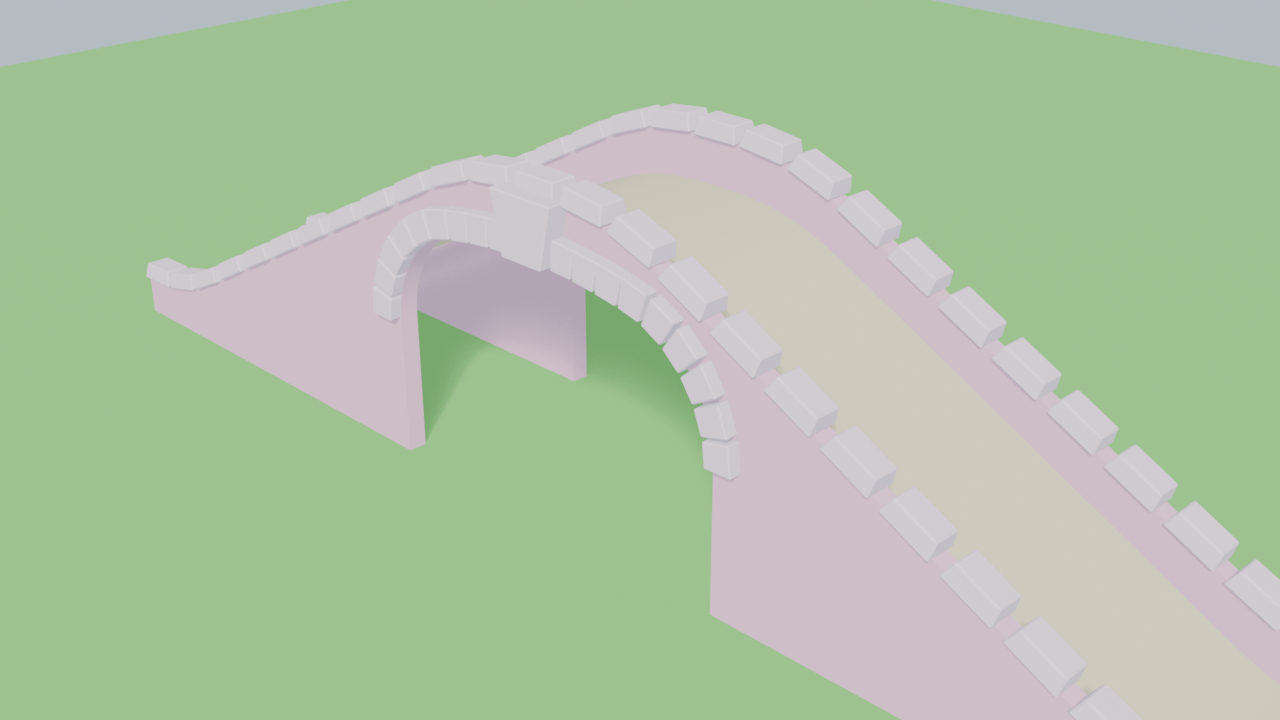
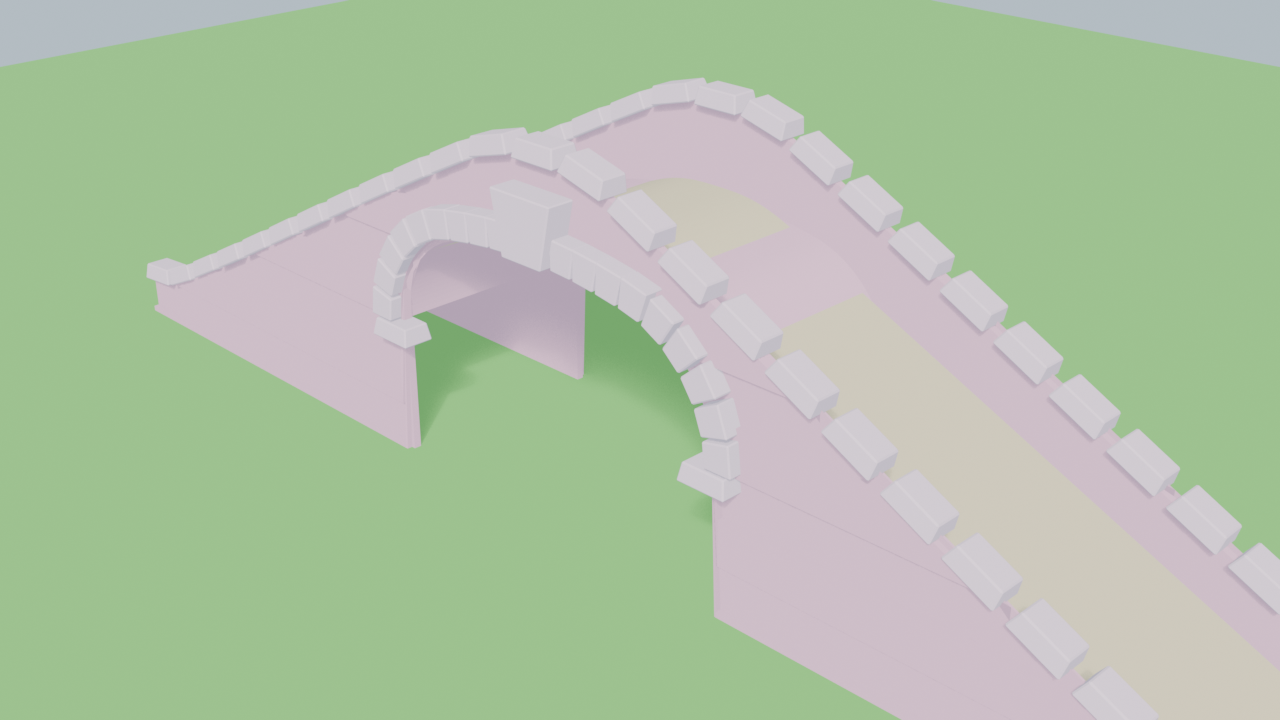
Preview: coursed flank, arced parapet, imposts, and a real barrel
Adds bridge-flank.png, the child's-eye view at the ramp foot that the flank
rework is actually for. Two preview-only bugs found and fixed on the way, both
worth knowing: a strip that *skips* a clamped-away sample bridges the gap to
the next one (it drew flat bars across the tunnel mouth), and a solidify's
offset follows the strip's own winding, so half the courses were pushed into
the wall and vanished. bridges.ts is immune to the first by construction -
every ring keeps the same course count - and does not use a solidify at all.

Claude-Session: https://claude.ai/code/session_0159y2RedQ8h6oPYxovTEG7t

diff --git a/art/blend/bridge_stones_render.py b/art/blend/bridge_stones_render.py
@@ -40,7 +40,11 @@ HEIGHT_MARGIN = 0.05
 ROAD_HALF = 1.6            # canonical seed's first bridge
 WALL_THICKNESS = 0.3
 PARAPET_HEIGHT = 0.72
-HUMP_BLEND = 0.25
+HUMP_BLEND = 0.15          # the Engineer's sprint-safe trim (provisional)
+PARAPET_ARC_RISE = 0.45    # the pronounced hump, on the part nobody walks on
+COURSE_HEIGHT = 0.7
+COURSE_RECESS = 0.09
+COPING_HEIGHT = 0.28
 RAMP_RUN = 7.814           # the Engineer's contract: 15.157 -> 7.814 (#349)
 
 COPING_LENGTH = 0.86
@@ -78,6 +82,18 @@ def arch_at(s: float):
         along = C2_ALONG + R2 * math.sin(theta)
         y = SPRING_Y + R2 * math.cos(theta)
     return sign * along, y, sign * math.sin(theta), math.cos(theta)
+
+
+def soffit_at(along_abs: float) -> float:
+    """`bridges.ts`'s `soffitAt` — the arch's height, by |along|."""
+    if along_abs <= 0:
+        return SOFFIT_CROWN
+    if along_abs >= ARCH_SPAN_HALF:
+        return SPRING_Y
+    if along_abs <= ARCH_CLEAR_HALF:
+        return SOFFIT_CROWN - (R1 - math.sqrt(max(0.0, R1 * R1 - along_abs ** 2)))
+    dx = along_abs - C2_ALONG
+    return SPRING_Y + math.sqrt(max(0.0, R2 * R2 - dx * dx))
 
 
 def ring_stones():
@@ -122,6 +138,18 @@ def profile_drop(q: float) -> float:
 def road_y(along: float) -> float:
     q = min(1.0, abs(along) / RAMP_RUN_TOTAL)
     return CROWN_ROAD * (1 - profile_drop(q))
+
+
+def parapet_top_y(along: float) -> float:
+    """`bridges.ts`'s `parapetTopFor`: the road, the parapet, and the arc.
+
+    The arc is the whole answer to "a more pronounced hump" — it goes on the
+    parapet and the coping, which nobody walks on, while the road underneath
+    stays gentle enough that a sprinting child keeps her footing.
+    """
+    q = min(1.0, abs(along) / RAMP_RUN_TOTAL)
+    arc = PARAPET_ARC_RISE * (0.5 + 0.5 * math.cos(math.pi * q))
+    return road_y(along) + PARAPET_HEIGHT + arc
 
 
 RAMP_RUN_TOTAL = ARCH_SPAN_HALF + RAMP_RUN
@@ -180,7 +208,7 @@ def spandrel(coll):
     verts = []
     faces = []
     for a in alongs:
-        top = road_y(a) + PARAPET_HEIGHT
+        top = parapet_top_y(a)
         verts.append((a, 0.0, -1.0))
         verts.append((a, 0.0, top))
     for i in range(steps):
@@ -189,9 +217,74 @@ def spandrel(coll):
     outline = new_mesh("spandrel", verts, faces, coll)
 
     solid = outline.modifiers.new("solid", "SOLIDIFY")
-    solid.thickness = WALL_THICKNESS
+    # The *recessed* course line is the base wall; the proud courses below
+    # stand back out to the full `WALL_THICKNESS`. Modelling it this way round
+    # rather than cutting insets out of a full-thickness wall renders the same
+    # and is a fraction of the geometry — what matters is that the widest the
+    # wall ever gets is still exactly `WALL_THICKNESS`.
+    solid.thickness = WALL_THICKNESS - 2 * COURSE_RECESS
     solid.offset = 0.0
     return outline
+
+
+def courses(coll, side):
+    """The coursed outer flank — levelled bands, alternate ones recessed.
+
+    `bridges.ts` builds this into the swept shell itself; here it is a separate
+    slab per course, which renders the same and is far less code. What matters
+    for judging it is that the course heights and the recess are the same
+    numbers, and that they are level right along the bridge.
+    """
+    y_face = side * (ROAD_HALF + WALL_THICKNESS / 2)
+    level = CROWN_ROAD
+    index = 0
+    while level > -1.0:
+        if index % 2 != 0:
+            level -= COURSE_HEIGHT
+            index += 1
+            continue
+        top, bottom = level, level - COURSE_HEIGHT
+        verts, faces, base = [], [], 0
+        steps = 120
+        for i in range(steps + 1):
+            a = -RAMP_RUN_TOTAL + i * (2 * RAMP_RUN_TOTAL / steps)
+            wall_top = parapet_top_y(a)
+            # The wall's own bottom: under the terrain out on the ramps, but
+            # the soffit itself inside the tunnel — a course must stop at the
+            # arch, not run across the opening. `bridges.ts` gets this for free
+            # because the courses are part of the swept shell, whose bottom is
+            # already the soffit there; the preview has to say it out loud.
+            if abs(a) < ARCH_SPAN_HALF:
+                wall_bottom = soffit_at(abs(a))
+            else:
+                wall_bottom = -1.0
+            t = min(wall_top, max(wall_bottom, top))
+            b = min(wall_top, max(wall_bottom, bottom))
+            # Never *skip* a sample where the course has been clamped away —
+            # emit a degenerate (zero-height) pair instead. Skipping leaves the
+            # strip's remaining pairs adjacent in the vertex list but not in
+            # `a`, so the next quad bridges the gap: the first attempt at this
+            # drew flat bars straight across the tunnel mouth. `bridges.ts`
+            # keeps every ring's course count fixed for exactly this reason.
+            near = y_face + side * (WALL_THICKNESS / 2 - COURSE_RECESS)
+            verts += [(a, near, b), (a, near, t)]
+        for i in range(len(verts) // 2 - 1):
+            q = i * 2
+            faces.append((q, q + 2, q + 3, q + 1))
+        if faces:
+            band = new_mesh(f"course{side}.{index}", verts, faces, coll)
+            thick = band.modifiers.new("solid", "SOLIDIFY")
+            # Straddle the base face rather than offsetting to one side: a
+            # solidify's offset follows the strip's own normals, and a strip
+            # built from a vertex list can wind either way, so half the courses
+            # were being pushed *into* the wall and vanishing. Doubling the
+            # thickness and centring it stands the band proud whichever way the
+            # normals point, and the half inside the wall is never seen.
+            thick.thickness = 2 * COURSE_RECESS
+            thick.offset = 0.0
+        level -= COURSE_HEIGHT
+        index += 1
+        base += 0
 
 
 def arch_cutter(coll):
@@ -273,15 +366,24 @@ def build_preview():
                   f"ring{side}.{index}")
 
         # --- the coping run along this parapet
+        courses(coll, side)
+
+        # --- the imposts: the course each arch springs from
+        for end in (1, -1):
+            along, y, _, _ = arch_at(end * ARC_HALF)
+            m = (Matrix.Translation((along, face_y, y - COPING_HEIGHT))
+                 @ Matrix.Rotation(math.pi / 2, 4, "Z"))
+            place("coping", coll, m, f"impost{side}.{end}")
+
         length = 2 * RAMP_RUN_TOTAL
         count = max(1, int(length / COPING_LENGTH))
         step = length / count
         for i in range(count):
             a = -RAMP_RUN_TOTAL + step * (i + 0.5)
-            top = road_y(a) + PARAPET_HEIGHT
+            top = parapet_top_y(a)
             # Tilt each block onto the local grade, so the run flows over the
             # hump instead of stepping up it.
-            slope = (road_y(a + 0.2) - road_y(a - 0.2)) / 0.4
+            slope = (parapet_top_y(a + 0.2) - parapet_top_y(a - 0.2)) / 0.4
             tilt = math.atan(slope)
             m = (Matrix.Translation((a, side * (ROAD_HALF + WALL_THICKNESS / 2), top))
                  @ Matrix.Rotation(math.pi / 2, 4, "Z")
@@ -301,6 +403,23 @@ def build_preview():
         b = i * 2
         faces.append((b, b + 1, b + 3, b + 2))
     new_mesh("road", verts, faces, coll, "pathSand")
+
+    # --- the barrel: the tunnel's own ceiling, mouth to mouth.
+    # Without it the preview shows two separate spandrels with daylight
+    # between them, and the arch reads as a hole in a flat wall rather than as
+    # somewhere a train goes. `bridges.ts` sweeps this surface for real.
+    steps = 96
+    verts = []
+    faces = []
+    for i in range(steps + 1):
+        s_arc = -ARC_HALF + i * (2 * ARC_HALF / steps)
+        a, y, _, _ = arch_at(s_arc)
+        verts.append((a, -HALF_ACROSS, y))
+        verts.append((a, HALF_ACROSS, y))
+    for i in range(steps):
+        b = i * 2
+        faces.append((b, b + 1, b + 3, b + 2))
+    new_mesh("barrel", verts, faces, coll)
 
     # --- the ground, for the silhouette
     g = 30.0
@@ -348,8 +467,11 @@ SHOTS = {
     "bridge-arch": ((0.9, -16.0, 2.4), (0.0, 0.0, 2.6), 42.0),
     # Straight along the deck: the coping run over the hump.
     "bridge-coping": ((-14.0, -3.4, 6.4), (2.0, 0.0, 3.4), 45.0),
+    # A child's eye height at the ramp foot — the view the flank was reworked
+    # for. If the coursing does not read from here it does not read at all.
+    "bridge-flank": ((-9.5, -7.0, 1.2), (0.5, -2.6, 2.4), 40.0),
     # Flat side elevation: the hump silhouette and the arch together.
-    "bridge-silhouette": ((0.0, -46.0, 5.2), (0.0, 0.0, 2.6), 68.0),
+    "bridge-silhouette": ((0.0, -48.0, 5.4), (0.0, 0.0, 2.4), 60.0),
 }
 
 
